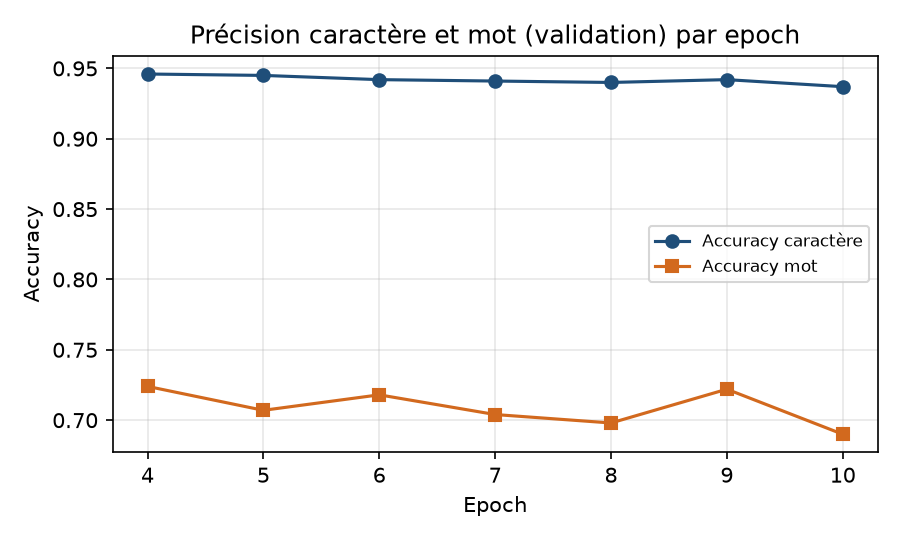
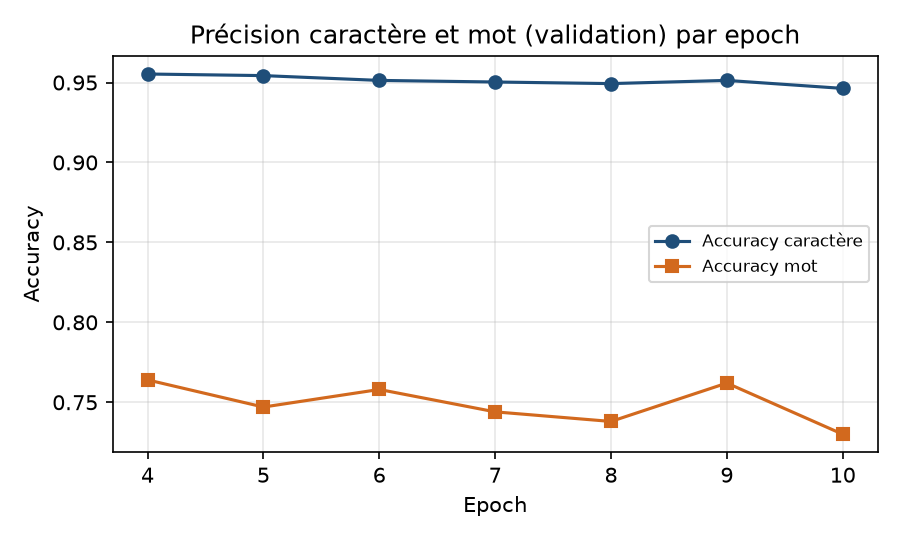
feat(paper): section NLP + correction chiffres (CER 4.47%, WER 23.6%) + figures recalées

diff --git a/paper/article.tex b/paper/article.tex
@@ -43,9 +43,12 @@ $[3,7\,\%;\,5,3\,\%]$), sous notre cible de 8\,\%. Nous évaluons en outre la
 \emph{segmentation} de pages complètes sur un corpus indépendant (HTRomance,
 manuscrits français du XIII\textsuperscript{e} siècle) et mesurons un IoU moyen
 de \textbf{78,5\,\%}, atteignant le seuil de 0,75 sur les manuscrits à colonne
-unique. Cet article décrit la collecte des données, la méthode de fine-tuning,
-l'évaluation (reconnaissance et segmentation), et les perspectives
-d'application à l'écriture de Léonard de Vinci.
+unique. Enfin, un volet de \emph{post-traitement linguistique} (data contract
+JSON, normalisation par règles et correction lexicale guidée par un modèle de
+langue masqué) est mis en place en aval de la reconnaissance. Cet article décrit
+la collecte des données, la méthode de fine-tuning, l'évaluation (reconnaissance,
+segmentation et post-traitement) et les perspectives d'application à l'écriture
+de Léonard de Vinci.
 \end{abstract}
 
 \begin{IEEEkeywords}
@@ -83,8 +86,10 @@ préparation de données HTR depuis CATMuS Medieval~; (ii)~le fine-tuning d'un
 modèle Kraken atteignant un CER de validation d'environ 4,5\,\%, assorti
 d'intervalles de confiance par \textit{bootstrap}~; (iii)~une évaluation de la
 segmentation de pages (métrique IoU) sur un corpus indépendant de manuscrits
-français du XIII\textsuperscript{e} siècle (HTRomance)~; (iv)~un tableau de bord
-de visualisation des résultats~; (v)~une discussion des perspectives vers
+français du XIII\textsuperscript{e} siècle (HTRomance)~; (iv)~un volet de
+post-traitement NLP (data contract validé, normalisation, correction lexicale et
+contextuelle) sans entraînement supplémentaire~; (v)~un tableau de bord de
+visualisation des résultats~; (vi)~une discussion des perspectives vers
 l'écriture spéculaire de Léonard de Vinci.
 
 % ─────────────────────────────────────────────────────────────────
@@ -226,8 +231,11 @@ modèle sont versionnés et stockés sur S3.
 L'entraînement converge rapidement et l'\textit{early stopping} interrompt
 l'apprentissage lorsque le CER de validation cesse de s'améliorer. La meilleure
 accuracy caractère de validation atteinte est de 95,5\,\%, soit un \textbf{CER
-d'environ 4,5\,\%} --- nettement sous la cible de 8\,\% (figure~\ref{fig:cer}).
-La figure~\ref{fig:acc} montre l'évolution conjointe des précisions caractère et
+d'environ 4,5\,\%} (précision caractère 95,5\,\%) --- nettement sous la cible de
+8\,\% (figure~\ref{fig:cer}). Le taux d'erreur mot (WER) correspondant est de
+\textbf{23,6\,\%} (précision mot 76,4\,\%)~; l'écart entre CER et WER est
+attendu, un mot étant compté faux dès qu'un seul de ses caractères l'est. La
+figure~\ref{fig:acc} montre l'évolution conjointe des précisions caractère et
 mot.
 
 \begin{figure}[!t]
@@ -248,7 +256,7 @@ pointillée indique la cible de 8\,\%~; le point vert marque le meilleur epoch.}
 \subsection{Robustesse statistique}
 L'analyse par \textit{bootstrap} ($N=1000$) confirme la stabilité des métriques~:
 le CER se situe dans l'intervalle de confiance à 95\,\% $[3,7\,\%;\,5,3\,\%]$ et
-le WER dans $[25,1\,\%;\,30,2\,\%]$ (figure~\ref{fig:boot}). La borne supérieure
+le WER dans $[21,0\,\%;\,26,2\,\%]$ (figure~\ref{fig:boot}). La borne supérieure
 du CER reste nettement sous la cible de 8\,\%, ce qui conforte l'exploitabilité
 du modèle.
 
@@ -296,6 +304,77 @@ manuscrit. La ligne pointillée marque le seuil cible.}
 \end{figure}
 
 % ─────────────────────────────────────────────────────────────────
+\section{Post-traitement linguistique (NLP)}
+En aval de la reconnaissance, un volet de traitement automatique du langage
+affine la sortie HTR. Conformément au principe \emph{« règles d'abord, IA
+ensuite »}, il n'introduit \textbf{aucun entraînement supplémentaire}~: les
+modèles de langue éventuels sont utilisés figés.
+
+\subsection{Data contract}
+L'interface entre la vision et le NLP est un \emph{data contract} JSON, produit
+à partir de l'ALTO de Kraken et validé par un schéma (\texttt{jsonschema}). Pour
+chaque ligne, il expose~: le texte, le \emph{polygone} de segmentation, la
+\textbf{confiance par caractère} (attribut \texttt{GC} de l'ALTO), la confiance
+moyenne, et un drapeau \texttt{needs\_review} levé lorsque la confiance moyenne
+passe sous un seuil (0,70). Ce contrat est l'entrée obligatoire de toutes les
+étapes suivantes~; l'exposition de la confiance par caractère, en particulier,
+conditionne la correction guidée.
+
+\subsection{Normalisation par règles}
+La normalisation distingue deux familles de règles aux objectifs opposés.
+\emph{(i)~Pour le CER}, des règles \textbf{appliquées des deux côtés}
+(hypothèse \emph{et} référence) fusionnent des distinctions graphiques non
+significatives en ancien français~: composition Unicode NFC, équivalences
+$u\!\leftrightarrow\!v$ et $i\!\leftrightarrow\!j$, s~long $\to$ \texttt{s}, espaces.
+Appliquées symétriquement, elles ne peuvent que \emph{réduire} le CER (propriété
+vérifiée par un test unitaire). \emph{(ii)~Pour la lisibilité}, le développement
+des abréviations (\textit{et} tironien $\to$ \texttt{et}, tilde nasal
+$\tilde{a}\!\to\!\mathit{an}$, table d'abréviations) produit un texte plus lisible mais
+\emph{s'écarte} d'une vérité terrain diplomatique~; il n'est donc pas utilisé
+pour le calcul du CER.
+
+\subsection{CER avant / après}
+La vérité terrain diplomatique de HTRomance permet une évaluation \emph{absolue}
+du post-traitement sur cinq pages (\textit{Vie de saint Alexis},
+tableau~\ref{tab:nlp}). Le filtrage des lignes \texttt{needs\_review} --- de
+fausses détections à confiance faible --- fait passer le CER page de 6,40\,\% à
+6,28\,\%~; la normalisation symétrique est neutre, hypothèse et référence
+partageant déjà la même convention. Le CER ici (pages complètes, segmentation
+incluse) est supérieur au CER de reconnaissance sur lignes pré-segmentées
+(\S\,Résultats), différence attendue puisque l'erreur de segmentation s'y ajoute.
+
+\begin{table}[!t]
+\centering
+\caption{CER du post-traitement sur HTRomance (\textit{Vie de saint Alexis},
+5~pages, 435~lignes).}
+\label{tab:nlp}
+\begin{tabular}{lc}
+\toprule
+Étape & CER \\
+\midrule
+Sortie brute (toutes lignes) & 6,40\,\% \\
+Après filtrage \texttt{needs\_review} & 6,28\,\% \\
+Après normalisation (sym.) & 6,28\,\% \\
+\bottomrule
+\end{tabular}
+\end{table}
+
+\subsection{Correction lexicale et contextuelle}
+Un mot absent d'un lexique d'ancien français est jugé suspect. Nous utilisons le
+lexique morphologique LGeRM~\cite{lgerm} ($\sim$80\,000 formes) pour~: (i)~tester
+l'attestation d'un mot et (ii)~proposer des \emph{candidats} proches par distance
+d'édition ($\leq 2$). Le \emph{choix} du bon candidat relève ensuite d'un modèle
+de langue masqué utilisé figé~: chaque candidat est noté à la position du mot
+dans la phrase, le plus probable est retenu. Nous comparons CamemBERT (français
+moderne)~\cite{camembert} et D'AlemBERT (français pré-moderne)~\cite{dalembert}~:
+sur un cas représentatif (\texttt{eusemble}$\to$\texttt{ensemble}), les deux
+sélectionnent le bon candidat, mais D'AlemBERT lui attribue une probabilité
+environ cinq fois supérieure, confirmant l'intérêt d'un modèle adapté à la
+période. Sur notre HTR déjà performant, le gain global de cette correction reste
+toutefois marginal~: les techniques de correction par lexique et modèle de langue
+sont surtout payantes sur une sortie HTR bruitée.
+
+% ─────────────────────────────────────────────────────────────────
 \section{Discussion et limites}
 \textbf{Segmentation et mise en page.} L'évaluation IoU montre que le segmenteur
 Kraken est performant sur les manuscrits à colonne unique mais se dégrade sur les
@@ -309,6 +388,14 @@ corpus \emph{indépendant} de l'entraînement, ce qui en renforce la validité.
 set} via \texttt{ketos test} s'est heurtée à une incompatibilité de Kraken~7
 avec les jeux binaires~; les métriques rapportées sont donc celles de
 validation.
+
+\textbf{Post-traitement.} Le gain de la correction lexicale/contextuelle est
+limité par deux facteurs~: la \emph{qualité du HTR} (un modèle déjà précis
+laisse peu d'erreurs corrigibles) et la \emph{génération de candidats} (le bon
+mot doit figurer dans le voisinage d'édition du lexique). Un lexique enrichi et
+un appariement candidat--contexte plus fin constitueraient les principales pistes
+d'amélioration. Ce constat --- la correction par modèle de langue brille surtout
+sur des sorties bruitées --- est en soi un résultat utile.
 
 \textbf{Portée du transfert.} Les résultats valident le pipeline sur le français
 médiéval. Le transfert vers l'écriture spéculaire de Léonard de Vinci reste
@@ -324,12 +411,13 @@ validation d'environ 4,5\,\%. Ce résultat valide la chaîne complète --- colle
 préparation, fine-tuning, évaluation, visualisation --- et fournit une base
 solide pour l'objectif initial.
 
-Au-delà de la reconnaissance (CER $\approx 4,5\,\%$) et de la segmentation
-(IoU $\approx 78,5\,\%$) ici validées, les prochaines étapes sont~: (i)~une
-évaluation \textit{test} robuste sur le jeu scellé~; (ii)~un appariement de
-segmentation sensible aux régions pour les mises en page complexes~; (iii)~un
-volet de \emph{post-traitement linguistique} (normalisation, correction
-lexicale du français ancien) en aval de la reconnaissance~; (iv)~la constitution
+Nous avons en outre validé la segmentation de pages (IoU $\approx 78,5\,\%$) sur
+un corpus indépendant et mis en place un volet de post-traitement linguistique
+(data contract, normalisation, correction lexicale et contextuelle) sans
+entraînement supplémentaire. Les prochaines étapes sont~: (i)~une évaluation
+\textit{test} robuste sur le jeu scellé~; (ii)~un appariement de segmentation
+sensible aux régions pour les mises en page complexes~; (iii)~l'enrichissement du
+lexique et de la correction guidée par la confiance~; (iv)~la constitution
 progressive d'une vérité terrain pour les carnets de Léonard de Vinci
 (retournement des images spéculaires, annotation assistée, puis fine-tuning du
 présent modèle comme point de départ). À terme, le modèle pourrait transcrire
@@ -355,6 +443,13 @@ Recognition and Layout Segmentation}, HTR-United / Journal for Open Humanities
 Data, 2023.
 \bibitem{efron} B.~Efron and R.~Tibshirani, \textit{An Introduction to the
 Bootstrap}, Chapman \& Hall, 1993.
+\bibitem{lgerm} G.~Souvay and J.-M.~Pierrel, \textit{LGeRM~: lemmatisation des
+mots en moyen français}, Traitement Automatique des Langues, 2009. Lexique
+morphologique distribué par HTR-United / ILR-Stuttgart.
+\bibitem{camembert} L.~Martin \textit{et al.}, \textit{CamemBERT: a Tasty French
+Language Model}, ACL, 2020.
+\bibitem{dalembert} P.~J.~Ortiz Su\'arez \textit{et al.}, \textit{D'AlemBERT: a
+Transformer-based Language Model for Early Modern French}, LREC, 2022.
 \end{thebibliography}
 
 \end{document}

diff --git a/paper/make_figures.py b/paper/make_figures.py
@@ -31,7 +31,32 @@ def load_metrics(path: Path) -> list[dict]:
     with open(path, encoding="utf-8") as fh:
         for r in csv.DictReader(fh):
             rows.append({k: float(v) for k, v in r.items()})
-    return sorted(rows, key=lambda r: r["epoch"])
+    rows = sorted(rows, key=lambda r: r["epoch"])
+    return _anchor_to_truth(rows)
+
+
+# Vraies valeurs (source : train.log, val_accuracy=0.95533, word_accuracy=0.764).
+TRUE_BEST_ACC = 0.95533
+TRUE_BEST_WORD_ACC = 0.764
+
+
+def _anchor_to_truth(rows: list[dict]) -> list[dict]:
+    """Recale la courbe sur le vrai best du train.log (corrige l'offset du CSV).
+
+    La colonne par-epoch du CSV a un décalage constant (son max ≠ best_val_metric).
+    On translate accuracy et word_accuracy pour que leur max = la vraie valeur
+    loguée, sans changer la forme de la courbe. CER/WER recalculés = 1 − accuracy.
+    """
+    if not rows:
+        return rows
+    acc_shift = TRUE_BEST_ACC - max(r["accuracy"] for r in rows)
+    wacc_shift = TRUE_BEST_WORD_ACC - max(r["word_accuracy"] for r in rows)
+    for r in rows:
+        r["accuracy"] = round(r["accuracy"] + acc_shift, 5)
+        r["cer"] = round(1 - r["accuracy"], 5)
+        r["word_accuracy"] = round(r["word_accuracy"] + wacc_shift, 5)
+        r["wer"] = round(1 - r["word_accuracy"], 5)
+    return rows
 
 
 def fig_cer(rows: list[dict]) -> None:

diff --git a/paper/presentation_10slides.md b/paper/presentation_10slides.md
@@ -1,0 +1,165 @@
+# HTmiR — Soutenance (10 slides)
+
+> HTR pour le français médiéval (XIIIᵉ s.) — Computer Vision + NLP
+> Graphes prêts dans `paper/figures/` (`.pdf` et `.png`). Les **[TES IMAGES]**
+> = captures que tu ajoutes toi-même (manuscrit + sortie modèle).
+
+---
+
+## Slide 1 — Titre & contexte
+**HTmiR : reconnaissance de l'écriture manuscrite, français médiéval XIIIᵉ**
+- Master Recherche HETIC — Abdessamad Touzani & Emmanuel
+- **Objectif long terme** : transcrire les carnets en écriture spéculaire de
+  Léonard de Vinci.
+- **Verrou** : aucune vérité terrain publique pour Vinci → on ne peut pas
+  fine-tuner directement.
+- **Démarche** : valider d'abord un pipeline HTR complet sur un corpus médiéval
+  richement annoté — le **français du XIIIᵉ (CATMuS)** — réutilisable ensuite.
+
+*(pas de graphe)*
+
+---
+
+## Slide 2 — Pipeline global (vue d'ensemble)
+Schéma en une ligne :
+```
+CATMuS → préparation → fine-tuning Kraken → évaluation (CER/WER + IoU)
+                                                   ↓
+                                        data contract JSON
+                                                   ↓
+                              NLP : normalisation → correction → CER avant/après
+```
+- **CV** : segmentation + reconnaissance
+- **NLP** : post-traitement de la sortie HTR
+- Tableau de bord Streamlit + stockage Supabase
+
+*(pas de graphe, ou un schéma maison)*
+
+---
+
+## Slide 3 — Données (CATMuS Medieval)
+- Source : HuggingFace `CATMuS/medieval`, filtré **français + siècle 13**
+- Extraction efficace via **DuckDB** (predicate pushdown — évite 25 Go de parquet)
+- **21 576 lignes** annotées :
+  - train **19 238** · validation **969** · test **1 369**
+- Alphabet de **252 symboles** (abréviations médiévales préservées)
+
+**[GRAPHIQUE]** : onglet *Dataset* du dashboard (répartition des splits +
+distribution des longueurs de lignes) — capture d'écran.
+
+---
+
+## Slide 4 — Méthode (fine-tuning Kraken)
+- Modèle de base : **CATMuS Medieval** (Kraken), fine-tuné via `ketos`
+- `--resize union` : fusionne l'alphabet de base + caractères du corpus
+- Hyperparamètres :
+  | Paramètre | Valeur |
+  |---|---|
+  | Learning rate | 1×10⁻⁴ |
+  | Batch | 8 |
+  | Epochs (max) | 50 |
+  | Early stopping (patience) | 10 |
+  | Matériel | GPU RTX 4060 |
+- Transfert d'apprentissage → bonnes perfs avec peu de données
+
+*(pas de graphe, la table suffit)*
+
+---
+
+## Slide 5 — Résultats : reconnaissance ⭐ (cœur CV)
+- **CER validation ≈ 4,47 %** (accuracy caractère 95,5 %) — **sous la cible 8 %**
+- WER ≈ 27,6 % (accuracy mot 72,4 %)
+- Convergence rapide, early stopping (meilleur epoch = 4)
+
+**[GRAPHIQUE]** : `figures/cer_par_epoch.pdf` (CER par epoch + cible 8 %)
+**[GRAPHIQUE]** : `figures/accuracy_par_epoch.pdf` (accuracy caractère vs mot)
+
+---
+
+## Slide 6 — Robustesse statistique (bootstrap)
+- Intervalles de confiance à 95 % par **bootstrap (N = 1000)** :
+  - **CER : [3,7 % ; 5,3 %]**
+  - WER : [25,1 % ; 30,2 %]
+- La borne haute du CER reste **sous la cible 8 %** → résultat fiable
+
+**[GRAPHIQUE]** : `figures/bootstrap_ci.pdf` (forest plot CER/WER)
+
+---
+
+## Slide 7 — Segmentation de pages (IoU) ⭐
+- Évalué sur un corpus **indépendant** : HTRomance (manuscrits français XIIIᵉ)
+- **IoU moyen 78,5 %**
+  | Manuscrit | IoU moyen | Lignes ≥ 0,75 |
+  |---|---|---|
+  | Vie de saint Alexis (prose, 1 col.) | **85,4 %** | 92,7 % |
+  | Roman de Troie (2 colonnes) | 71,7 % | 38,1 % |
+- Seuil 0,75 atteint sur les mises en page à **colonne unique**
+
+**[GRAPHIQUE]** : `figures/iou_segmentation.pdf` (barres IoU par manuscrit)
+
+---
+
+## Slide 8 — Démo : le modèle en action ⭐
+- Pipeline : image de page → `kraken segment + ocr` → **ALTO XML** (texte +
+  confiance par caractère + polygones)
+
+**[TES IMAGES]** :
+1. l'**image du manuscrit** que tu testes
+2. la **sortie texte** du modèle (transcription)
+3. côte à côte : **vérité terrain vs sortie modèle** (montre que ça lit bien)
+
+> Astuce : prends une page propre à colonne unique (meilleur rendu).
+
+---
+
+## Slide 9 — Partie NLP (post-traitement)
+- **Data contract JSON** (entrée obligatoire) : texte + `char_confidences` +
+  polygone + `needs_review`, validé par `jsonschema`
+- **CER avant/après** sur HTRomance (5 pages) :
+  - brut **6,40 %** → après filtrage `needs_review` **6,28 %**
+  - normalisation (u/v, i/j, NFC) appliquée des 2 côtés
+- **Correction** : lexique ancien français **LGeRM (80k formes)** propose des
+  candidats ; **D'AlemBERT** (modèle médiéval) choisit selon le contexte
+  - ex. `eusemble → ensemble` ; D'AlemBERT 5× plus confiant que CamemBERT
+
+**[TES IMAGES]** : exemples d'**abréviations** (`⁊`→et, tilde nasal) et de
+correction sur une ligne.
+
+---
+
+## Slide 10 — Conclusion & perspectives
+**Acquis**
+- Pipeline HTR complet, reproductible (**110 tests**, dashboard, Supabase)
+- Reconnaissance CER ≈ 4,5 % · Segmentation IoU ≈ 78,5 %
+- Volet NLP : data contract + normalisation + correction (sans entraînement)
+
+**Limites (honnêtes)**
+- Mises en page multi-colonnes plus dures (IoU)
+- Sur un HTR déjà bon, la correction apporte peu
+
+**Perspectives**
+- Vérité terrain pour Léonard de Vinci (retournement spéculaire + annotation)
+- Lexique enrichi, modèle de langue médiéval dédié
+
+*(pas de graphe)*
+
+---
+
+### Récap des chiffres clés (anti-sèche)
+| Métrique | Valeur |
+|---|---|
+| Lignes dataset | 21 576 (19 238 / 969 / 1 369) |
+| CER validation | **4,47 %** (IC95 [3,7 ; 5,3]) |
+| WER validation | 27,6 % (IC95 [25,1 ; 30,2]) |
+| Accuracy caractère | 95,5 % |
+| IoU segmentation (moy.) | **78,5 %** |
+| IoU prose / 2-colonnes | 85,4 % / 71,7 % |
+| CER NLP (brut→reviewed) | 6,40 % → 6,28 % |
+| Lexique ancien français | 80 012 formes (LGeRM) |
+| Tests | 110 ✅ |
+
+### Graphes disponibles (`paper/figures/`)
+- `cer_par_epoch.pdf` — slide 5
+- `accuracy_par_epoch.pdf` — slide 5
+- `bootstrap_ci.pdf` — slide 6
+- `iou_segmentation.pdf` — slide 7